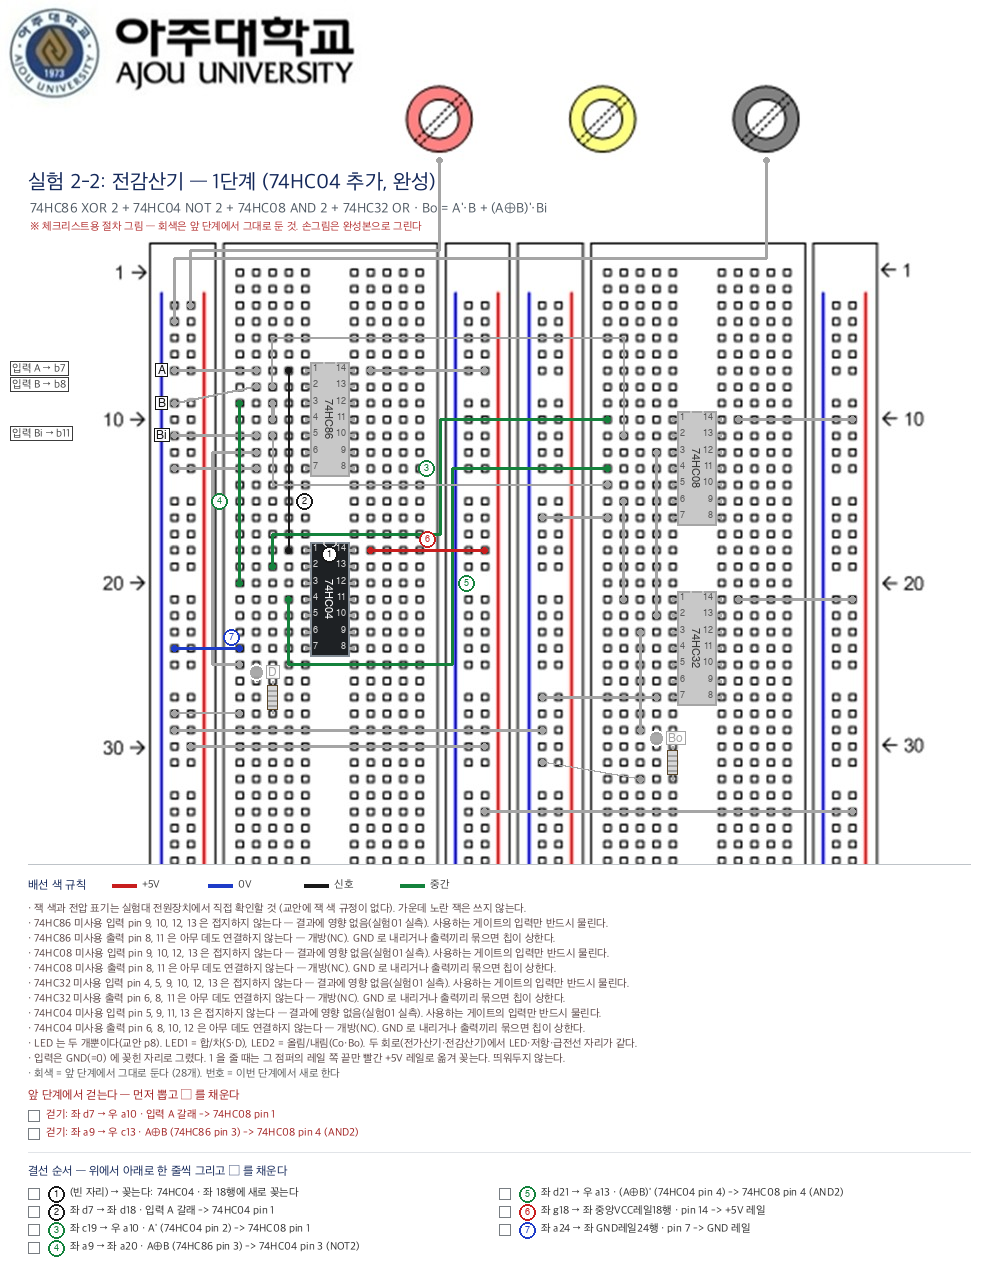
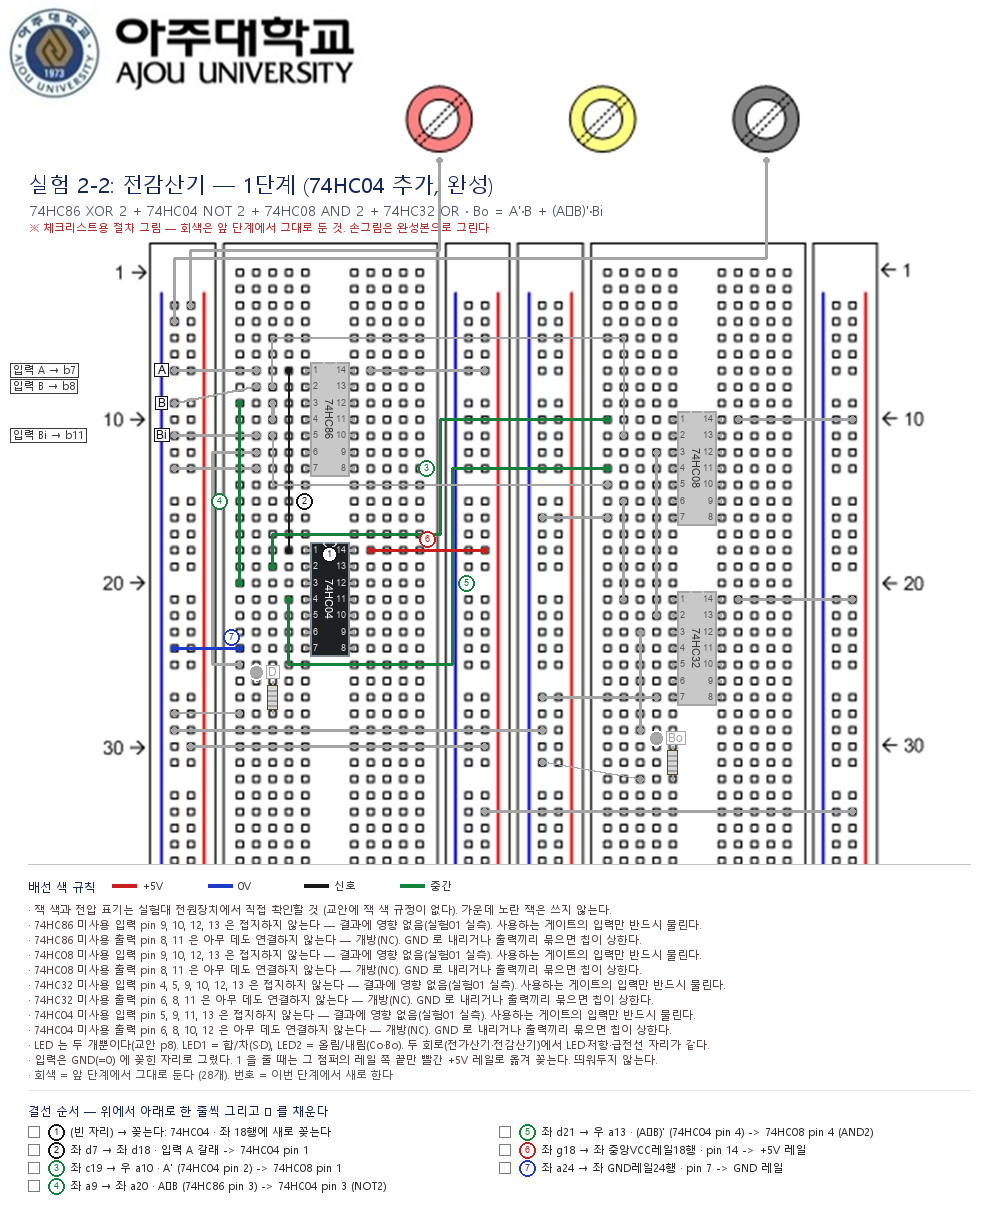
feat(lab): 실험03 전가산기→전감산기 경계에 걷기 보드(0단계)를 끼운다

diff --git a/보고서/실험03/결선도/배치.py b/보고서/실험03/결선도/배치.py
@@ -4,7 +4,7 @@
 import os
 import tempfile
 
-from render_breadboard import BreadboardRenderer, _input_jumper
+from render_breadboard import BreadboardRenderer, _input_jumper, removal_board
 
 
 # 실험 3 · 가산기 & 감산기 — 2026-2 배포본(9쪽) 기준, 2026-09-14 저작
@@ -101,7 +101,9 @@ def _e3_draw(bb, circuit, stage):
     # 사슬(fa·fs)은 급전선이 옮겨지지 않는다 — 회귀 전용 완성본(ha·hs)만 옛 문구를 쓴다.
     led_note = _E3_LED_NOTE_CHAIN if full else _E3_LED_NOTE_REGRESSION
     done = stage != 1
-    bb.partial = not done
+    # 걷기 보드(ghost)는 앞 회로를 완성 상태로 그리지만 뽑을 두 가닥을 점유표에서 빼므로
+    # 74HC08 pin 1·4 가 뜬다 — 그게 정상이라 생성자가 켜 둔 `partial` 을 도로 내리지 않는다
+    bb.partial = not done or bb.ghost is not None
 
     # --- 좌 S1: XOR + 입력 + LED1 ---
     bb.draw_chip('74HC86', _E3_S1)
@@ -292,12 +294,13 @@ def build_e3_hs(output_path, template_path=None, stage=None, baseline=None):
 
 
 def build_e3_fs(output_path, template_path=None, stage=None, baseline=None):
-    """실험 2-2 · 전감산기 (네 칩 전부). netlist C4. 1단계.
+    """실험 2-2 · 전감산기 (네 칩 전부). netlist C4. 걷기 보드(0단계) + 1단계.
 
-    전가산기(C2) 완성 상태에서 바꾼다 — 74HC04 를 S2 에 꽂고, AND1 pin 1 로 가던
-    A 갈래와 AND2 pin 4 로 가던 A⊕B 선을 걷어 인버터를 거치게 다시 꽂는다. Ci
-    점퍼는 그 자리 그대로 Bi 가 되고, LED 급전선 둘도 그대로다. 1단계가 곧 완성이다
-    (`stage=1` 은 `_e3_draw` 가 거절한다).
+    전가산기(C2) 완성 상태에서 바꾼다 — 0단계(걷기 보드)에서 AND1 pin 1 로 가던 A 갈래와
+    AND2 pin 4 로 가던 A⊕B 선을 걷고, 1단계에서 74HC04 를 S2 에 꽂아 인버터를 거치게
+    다시 꽂는다. Ci 점퍼는 그 자리 그대로 Bi 가 되고, LED 급전선 둘도 그대로다. 1단계가
+    곧 완성이다 (`stage=1` 은 `_e3_draw` 가 거절한다). 걷기 보드는 `BOARDS` 의
+    `removal_board(...)` 가 만든다 — 이 빌더에 `build_*` 래퍼는 없다.
     """
     bb = BreadboardRenderer(template_path, baseline=baseline)
     bb.enable_steps()
@@ -314,9 +317,16 @@ def build_e3_fs(output_path, template_path=None, stage=None, baseline=None):
 
 # 절차 그림 사슬. 보드 n 의 기준선은 보드 n-1 의 배선이다 — 실험실에서 보드 위에
 # 실제로 남아 있는 것. 첫 보드(C2 1단계)는 맨바닥에서 시작하므로 기준선이 없다.
+# C2 → C4 경계에 걷기 보드(0단계)가 있다 — 2026-09-18 실험실에서 걷을 두 가닥이
+# footer 표에만 있어 놓쳤다. 걷기 보드는 앞 회로가 전부 회색이고 뽑을 선만 빨간 점선이다.
 BOARDS = [
     ("실험03_1-2_결선도_전가산기_1단계_XOR.png", build_e3_fa, 1),
     ("실험03_1-2_결선도_전가산기_2단계_Co경로.png", build_e3_fa, None),
+    ("실험03_2-2_결선도_전감산기_0단계_걷기.png",
+     removal_board((build_e3_fa, None), (build_e3_fs, None),
+                   "실험 2-2: 전감산기 — 0단계 (전가산기에서 걷는 선 2가닥)",
+                   "A→74HC08 pin 1 갈래와 A⊕B→74HC08 pin 4 를 뽑는다 · 회색은 그대로 둔다"),
+     None),
     ("실험03_2-2_결선도_전감산기_1단계_NOT.png", build_e3_fs, None),
 ]
 
@@ -353,5 +363,5 @@ def build_e3_fa_s2(output_path, template_path=None):
 
 
 def build_e3_fs_s1(output_path, template_path=None):
-    """C4 1단계 — 전가산기에서 74HC04 를 끼워 전감산기로 바꾼다. 완성."""
-    return _e3_board(2, output_path, template_path)
+    """C4 1단계 — 걷기 보드(0단계) 뒤에 74HC04 를 끼워 전감산기로 바꾼다. 완성."""
+    return _e3_board(3, output_path, template_path)

diff --git a/tests/test_breadboard_wiring.py b/tests/test_breadboard_wiring.py
@@ -281,14 +281,45 @@ class WiringE3(unittest.TestCase):
         made = {n for n, _f, _s in self.b3.BOARDS} | {n for n, _f in self.b3.FINALS}
         self.assertEqual(wanted, made)
 
-    def test_보드_사슬은_3장_완성본은_2장이다(self):
-        """반가산기·반감산기는 조교 공지 `_350547_1` 로 하지 않는다 — 사슬에 없다."""
-        self.assertEqual(len(self.b3.BOARDS), 3)
+    def test_보드_사슬은_4장_완성본은_2장이다(self):
+        """반가산기·반감산기는 조교 공지 `_350547_1` 로 하지 않는다 — 사슬에 없다.
+        전가산기 → 전감산기 경계에 걷기 보드(0단계) 한 장이 있다(2026-09-18 실험실 기록)."""
+        self.assertEqual(len(self.b3.BOARDS), 4)
         self.assertEqual(len(self.b3.FINALS), 2)
         names = [n for n, _f, _s in self.b3.BOARDS] + [n for n, _f in self.b3.FINALS]
         self.assertEqual(len(names), len(set(names)), '파일명이 겹친다')
         self.assertNotIn(self.b3.BOARDS[-1][0], [n for n, _f in self.b3.FINALS])
         self.assertFalse(any(k in n for n in names for k in ('반가산기', '반감산기')), names)
+        self.assertEqual(self.b3.BOARDS[2][0], '실험03_2-2_결선도_전감산기_0단계_걷기.png')
+
+    def _chain(self):
+        """`build_all` 과 같은 순서로 사슬을 이어 그린 렌더러 목록."""
+        out, base = [], None
+        for name, fn, stage in self.b3.BOARDS:
+            bb = fn(os.path.join(self.tmp, name), stage=stage, baseline=base)
+            out.append(bb)
+            base = bb.snapshot()
+        return out
+
+    def test_걷기_보드는_두_가닥만_유령이고_새_선이_없다(self):
+        g = self._chain()[2]
+        self.assertEqual([(r['n'], r['addr']) for r in g.removals()],
+                         [(1, '좌 d7 → 우 a10'), (2, '좌 a9 → 우 c13')])
+        self.assertEqual(g.steps, [])
+        self.assertTrue(g.partial)
+        self.assertFalse(g.submit)
+        self.assertEqual([c['label'] for c in g.wiring()['chips']], ['74HC86', '74HC08', '74HC32'])
+
+    def test_걷기_보드_뒤의_전감산기_1단계는_걷을_것이_없다(self):
+        fs = self._chain()[3]
+        self.assertEqual(fs.removed(), [])
+        # 새 번호 일곱 개: 74HC04(1) + 네 가닥(4) + 전원 두 가닥(2) — 걷기 보드가 있어도 같다
+        self.assertEqual(len(fs.steps), 7, fs.steps)
+
+    def test_주차_파일에_걷기_보드_build_래퍼가_없다(self):
+        """`build_*` 래퍼는 `all_builders` 에 잡혀 가독성 검사 `steps > 0` 에 걸린다."""
+        _name, fn, _stage = self.b3.BOARDS[2]
+        self.assertEqual(fn.__module__, self.mod.__name__)
 
     def test_전가산기_1단계는_맨바닥에서_XOR_쪽만_꽂는다(self):
         """반가산기(실험 1-1)를 안 하므로 전가산기가 첫 보드다 — 기준선이 없고

diff --git a/보고서/실험03/결선도/netlist.md b/보고서/실험03/결선도/netlist.md
@@ -185,16 +185,19 @@ pin 1·2 의 배정은 배선 편의다 — 교안 원문이 아니다(M11).
 교안 p7 회로도 그대로. C2(전가산기)를 다 만든 상태에서 바꾼다 — 교안이 앞에 두는
 반감산기(실험 2-1)는 조교 공지 `_350547_1` 로 하지 않는다. 전가산기와 전감산기는
 XOR 쪽이 같고 AND 입력 둘만 다르다: AND1 pin 1 이 `A` 대신 `A'` 를, AND2 pin 4 가
-`A⊕B` 대신 `(A⊕B)'` 를 받는다. 그래서 새 칩은 `74HC04` 하나이고 단계도 하나다 —
-두 가닥을 걷고 인버터를 거치는 네 가닥을 꽂는다. `Ci` 점퍼는 그 자리 그대로 `Bi`
-가 되고, LED1 급전(U1 pin 6)·LED2 급전(U3 pin 3)도 그대로다 — `A⊕B⊕Ci` 와
+`A⊕B` 대신 `(A⊕B)'` 를 받는다. 그래서 새 칩은 `74HC04` 하나다. 0단계(걷기 보드)에서
+두 가닥을 걷고, 1단계에서 인버터를 거치는 네 가닥을 꽂는다 — 2026-09-18 실험실에서 두
+가닥을 안 걷은 채 인버터 쪽을 꽂아 LED 가 어긋났고, 그 뒤로 걷기를 그림 한 장으로
+뗐다. `Ci` 점퍼는 그 자리 그대로 `Bi` 가 되고,
+LED1 급전(U1 pin 6)·LED2 급전(U3 pin 3)도 그대로다 — `A⊕B⊕Ci` 와
 `A⊕B⊕Bi` 는 같은 함수라 LED1 은 배선을 안 바꾸고 `S` 에서 `D` 가 된다.
 
 ## 단계
 
 | 단계 | 그림 | 이 단계에서 | 확인 |
 |---|---|---|---|
-| 1 | `실험03_2-2_결선도_전감산기_1단계_NOT.png` | **A→U2 pin 1 갈래와 U1 pin 3→U2 pin 4 선을 걷는다.** 74HC04 를 S2 에 꽂고 전원 두 가닥(14→VCC, 7→GND), A→U4 pin 1, U4 pin 2→U2 pin 1(좌 j 열과 중앙 레일 사이 여백으로 건넌다), U1 pin 3→U4 pin 3, U4 pin 4→U2 pin 4(여백 차선으로 건넌다) 를 잇는다. Ci 점퍼는 그대로 두고 이제 Bi 로 부른다 | T7 8행 전부 (74HC04 첫 사용) — LED1 = D 는 입력에 1 이 홀수 개일 때, LED2 = Bo 는 001·010·011·111 에서 켜짐 |
+| 0 | `실험03_2-2_결선도_전감산기_0단계_걷기.png` | **전원을 끄고 걷기 ①(A→U2 pin 1 갈래, 좌 d7→우 a10)·②(U1 pin 3→U2 pin 4, 좌 a9→우 c13)를 뽑는다.** 그림의 빨간 점선이 그 두 가닥이다. 회색 선은 손대지 않는다. 새로 꽂는 것은 없다 | 뽑은 두 가닥이 손에 있고 우 a10·우 c13 홀이 비어 있다 (LED 검사 없음 — 2026-09-18 이 두 가닥을 안 뽑은 채 인버터를 꽂았다) |
+| 1 | `실험03_2-2_결선도_전감산기_1단계_NOT.png` | 걷기 ①·② 가 끝난 상태에서 74HC04 를 S2 에 꽂고 전원 두 가닥(14→VCC, 7→GND), A→U4 pin 1, U4 pin 2→U2 pin 1(좌 j 열과 중앙 레일 사이 여백으로 건넌다), U1 pin 3→U4 pin 3, U4 pin 4→U2 pin 4(여백 차선으로 건넌다) 를 잇는다. Ci 점퍼는 그대로 두고 이제 Bi 로 부른다 | T7 8행 전부 (74HC04 첫 사용) — LED1 = D 는 입력에 1 이 홀수 개일 때, LED2 = Bo 는 001·010·011·111 에서 켜짐 |
 
 - U1 = 74HC86 (quad 2-input XOR, DIP-14) — S1, C2 와 같은 칩
   - pin 14 → VCC(+5V)
